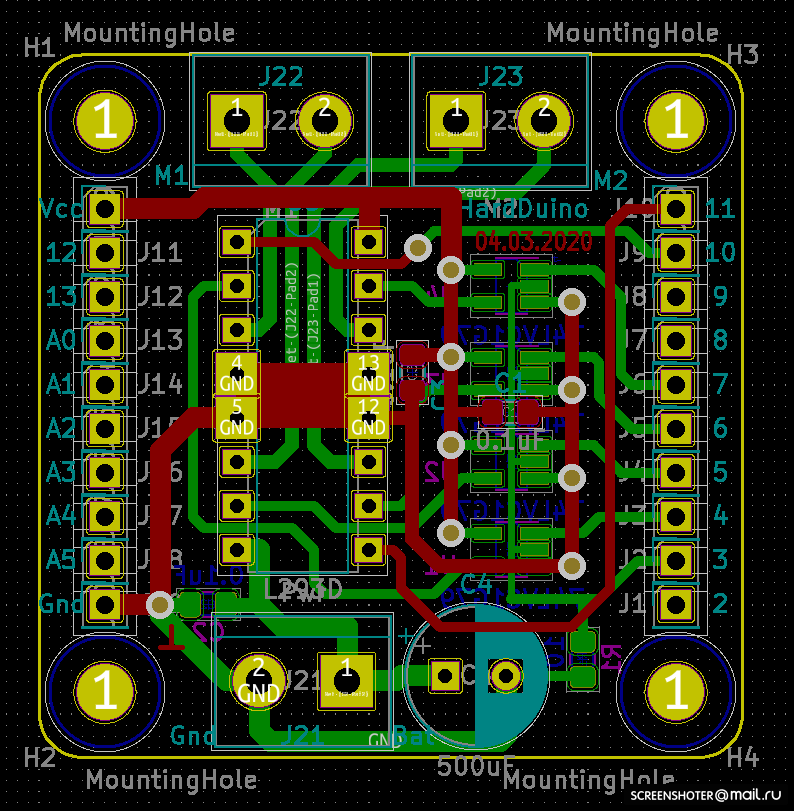
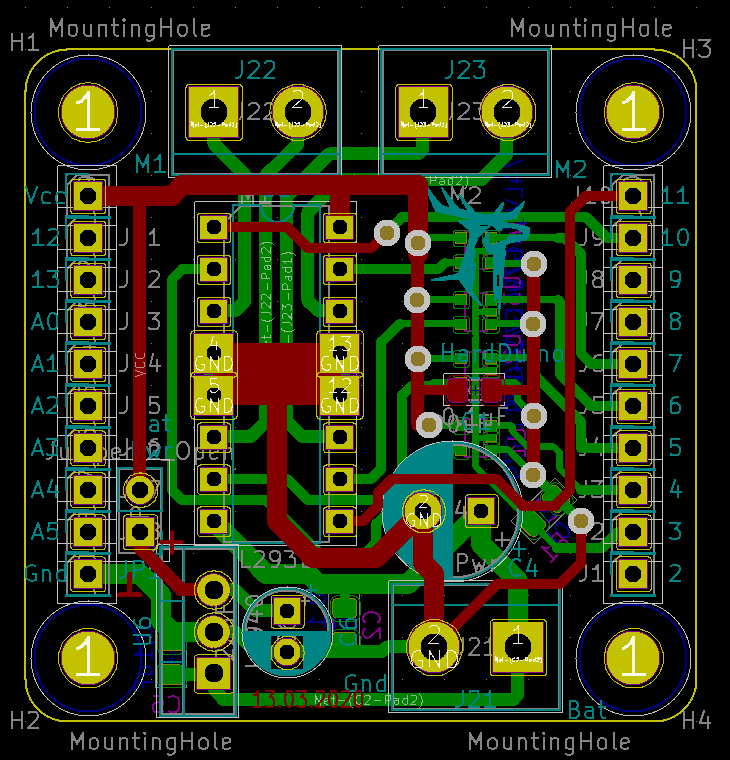
Update description & image

diff --git a/modules/pins.html b/modules/pins.html
@@ -135,10 +135,10 @@
 
 <tr><td>L293 <a href="imgs/L293.png">#</a></td><td></td>
 <td>-</td><td>-</td><td>-</td><td>Latch</td><td>M1+</td><td>M1-</td><td>M2+</td><td>M2-</td>
-<td>-</td><td>-</td><td>[PWM1]</td><td>[PWM2]</td><td>-</td><td>-</td>
+<td>-</td><td>-</td><td>PWM1</td><td>PWM2</td><td>-</td><td>-</td>
 <td>-</td><td>-</td><td>-</td><td>-</td><td>-</td><td>-</td>
 <td>+</td><td>+</td>
-<td>L293 motor shield, PWM is optional</td>
+<td>L293 motor shield with L4940V5 LDO</td>
 </tr>
 
 <tr><td>A4988</td><td></td>
